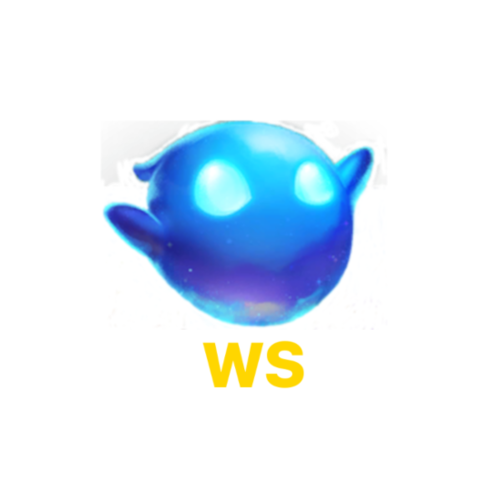
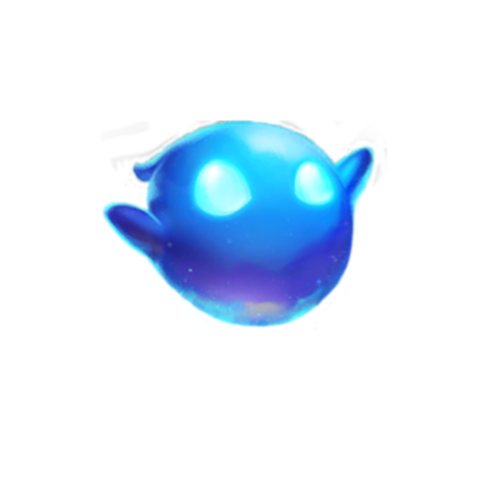
Ajuste na imagem e nome da aplicação

Changed region(s): [[0.39, 0.66, 0.63, 0.78]]

diff --git a/lib/app/modules/about/presenter/about_page/about_page.dart b/lib/app/modules/about/presenter/about_page/about_page.dart
@@ -7,11 +7,10 @@ import 'package:url_launcher/url_launcher.dart';
 import 'package:flutter_gen/gen_l10n/app_localizations.dart';
 
 class AboutPage extends StatelessWidget {
-
-
   @override
   Widget build(BuildContext context) {
-    SystemChrome.setSystemUIOverlayStyle(SystemUiOverlayStyle(statusBarColor: Colors.transparent));
+    SystemChrome.setSystemUIOverlayStyle(
+        SystemUiOverlayStyle(statusBarColor: Colors.transparent));
     return Scaffold(
       body: Stack(
         children: [
@@ -50,9 +49,7 @@ class AboutPage extends StatelessWidget {
                   height: MediaQuery.of(context).size.height / 2,
                   decoration: BoxDecoration(
                     image: DecorationImage(
-                      image: AssetImage(
-                          imageBackgroundAboutPage
-                        ),
+                      image: AssetImage(imageBackgroundAboutPage),
                       fit: BoxFit.cover,
                     ),
                     color: Colors.white.withOpacity(0.45),
@@ -71,7 +68,7 @@ class AboutPage extends StatelessWidget {
                     Container(
                       margin: EdgeInsets.only(top: 80),
                       child: Text(
-                        "Watch Summoner",
+                        "Summoner's Panel",
                         style: GoogleFonts.montserrat(
                           color: Colors.white,
                           fontSize: 16,
@@ -80,7 +77,7 @@ class AboutPage extends StatelessWidget {
                     ),
                     Container(
                       child: Text(
-                        "© 2021 WatchSummoner was created under Riot Games' \"Legal Jibber Jabber\" policy using assets owned by Riot Games.  Riot Games does not endorse or sponsor this project.",
+                        "© 2021 Summoner's Panel was created under Riot Games' \"Legal Jibber Jabber\" policy using assets owned by Riot Games.  Riot Games does not endorse or sponsor this project.",
                         style: GoogleFonts.montserrat(
                           color: Colors.white,
                           fontSize: 14,
@@ -103,9 +100,8 @@ class AboutPage extends StatelessWidget {
                     ),
                     Container(
                       decoration: BoxDecoration(
-                        color: Theme.of(context).colorScheme.background,
-                        borderRadius: BorderRadius.circular(8)
-                      ),
+                          color: Theme.of(context).colorScheme.background,
+                          borderRadius: BorderRadius.circular(8)),
                       margin: EdgeInsets.only(top: 40, bottom: 100),
                       child: IconButton(
                         onPressed: () {
@@ -129,9 +125,9 @@ class AboutPage extends StatelessWidget {
 
   openGit(BuildContext context) async {
     Uri uri = Uri(path: "https://github.com/HerrisonF");
-    if(await canLaunchUrl(Uri(path: "https://github.com/HerrisonF"))){
+    if (await canLaunchUrl(Uri(path: "https://github.com/HerrisonF"))) {
       launchUrl(uri);
-    }else {
+    } else {
       showToast(context, AppLocalizations.of(context)!.gitInstall);
     }
   }
